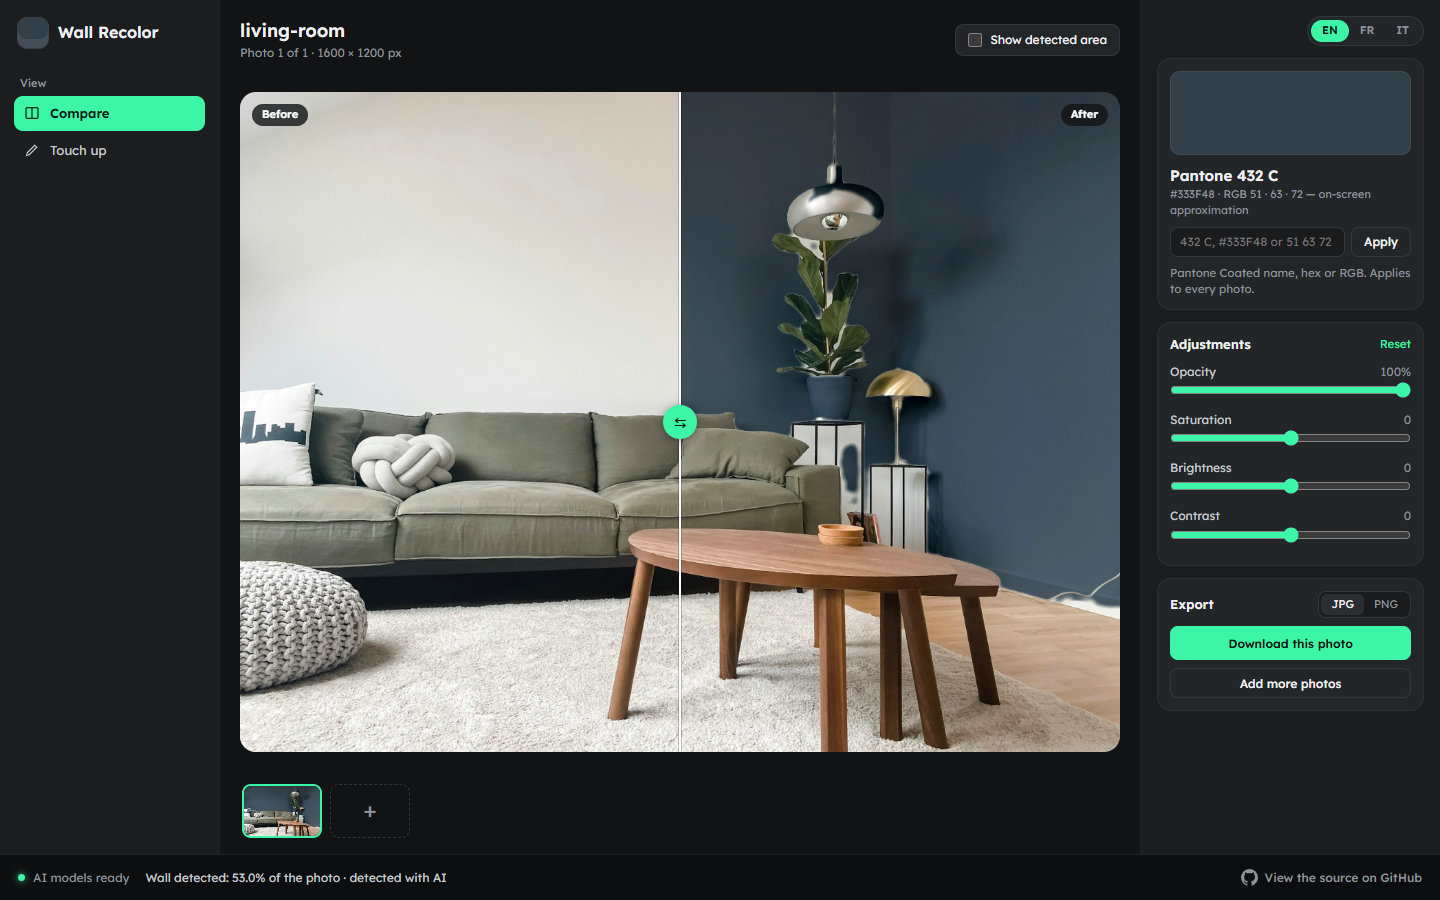
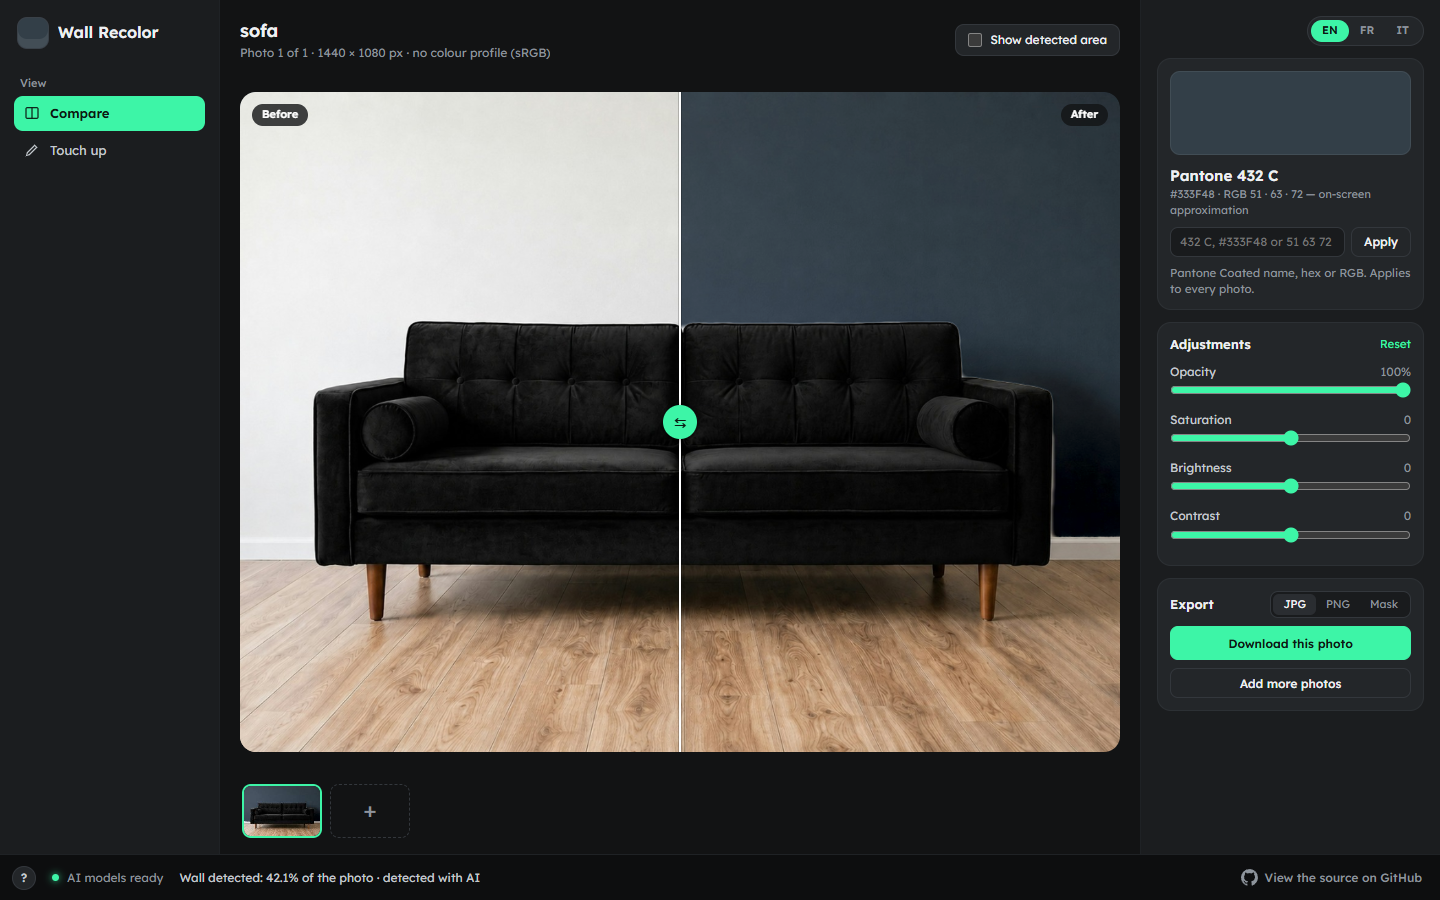
Replace the README screenshot with a simpler photo
A black sofa against a plain white wall (Unsplash, Oluwafunto Akintoye) gives
a clean mask; the credit in the README is updated.

diff --git a/README.md b/README.md
@@ -141,7 +141,7 @@ It uses the following open-source components, loaded at run time:
 
 The interface uses the [Lexend](https://github.com/googlefonts/lexend) typeface by The Lexend Project Authors, bundled under the [SIL Open Font License 1.1](fonts/OFL.txt).
 
-The photo in the screenshot is by [Katja Rooke](https://unsplash.com/@rooke) on [Unsplash](https://unsplash.com/photos/77JACslA8G0) (Unsplash License).
+The photo in the screenshot is by [Oluwafunto Akintoye](https://unsplash.com/@funtokint) on [Unsplash](https://unsplash.com/photos/bAFeDXWXL90) (Unsplash License).
 
 CLIPSeg also builds on OpenAI's CLIP (MIT). The guided filter follows He, Sun & Tang, *Guided Image Filtering* (2010).
 
